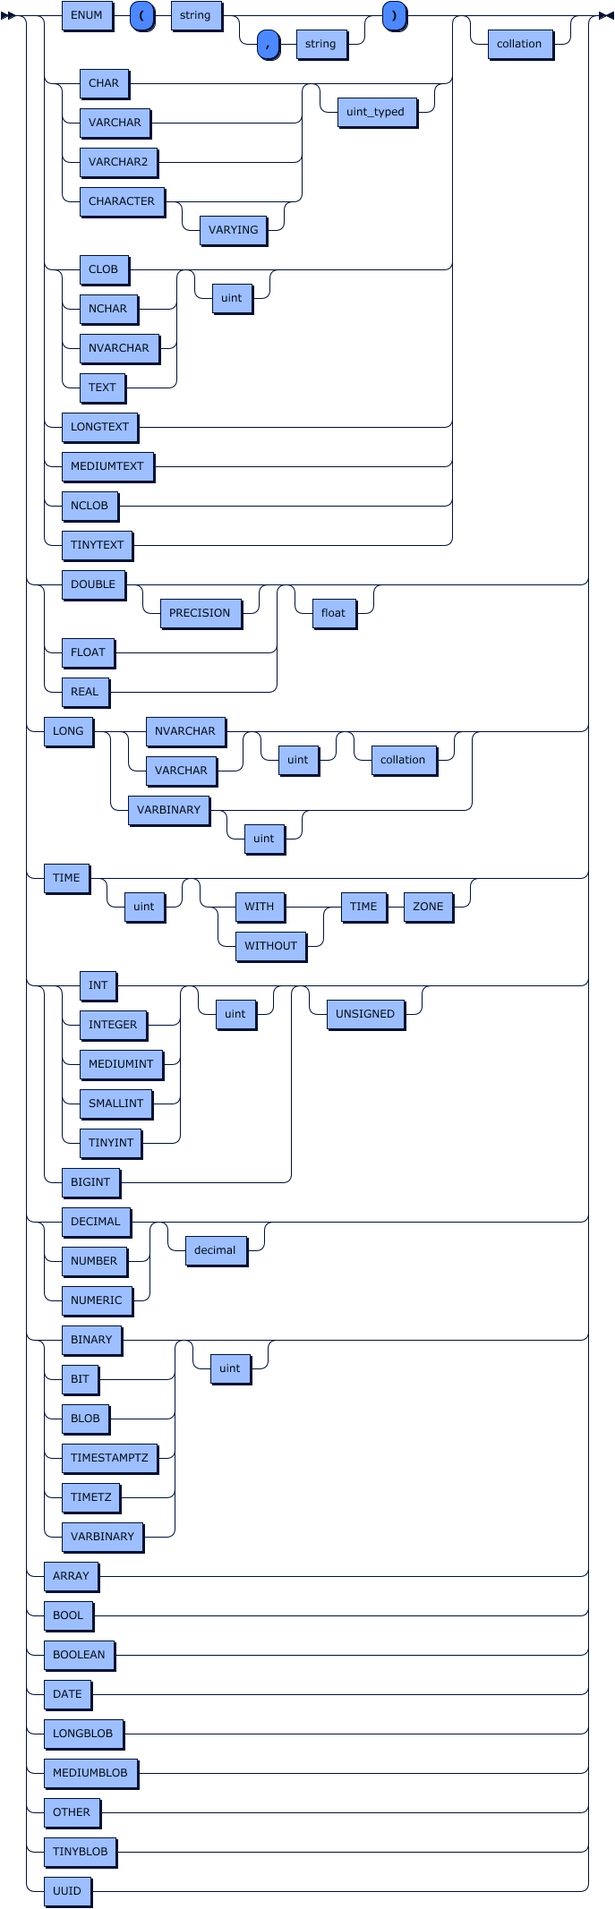
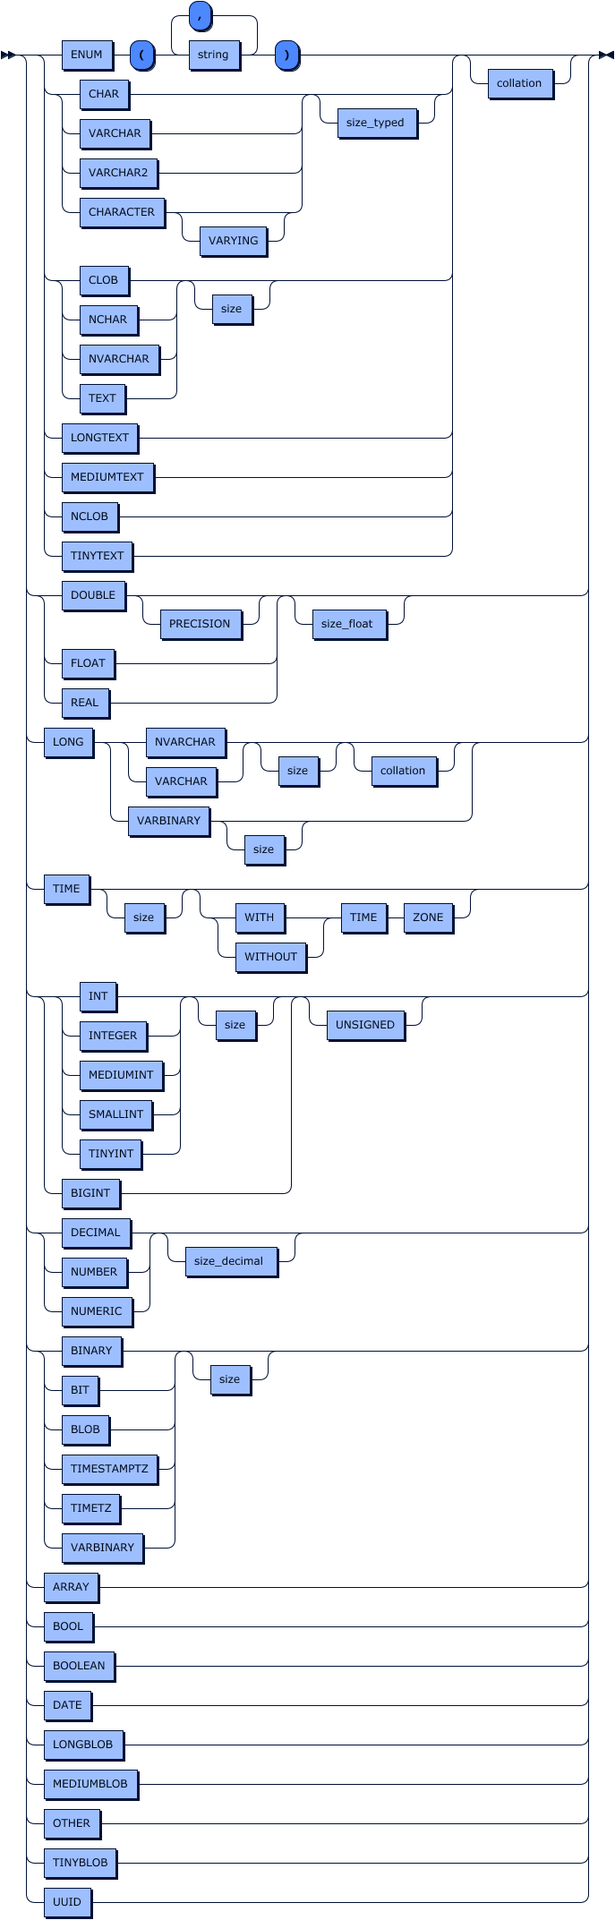
Doc update

diff --git a/doc/index.html b/doc/index.html
@@ -198,17 +198,29 @@
    
    <body>
       
-      <p style="font-size: 14px; font-weight:bold"><a name="sql">sql:</a></p><img border="0" src="diagram/sql.png" height="53" width="249" usemap="#sql.map"><map name="sql.map"><area shape="rect" coords="49,17,135,49" href="#statement" title="statement"><area shape="rect" coords="175,17,219,49" href="#EOF" title="EOF"></map><p>no references</p><br><p style="font-size: 14px; font-weight:bold"><a name="statement">statement:</a></p><img border="0" src="diagram/statement.png" height="37" width="215" usemap="#statement.map"><map name="statement.map"><area shape="rect" coords="29,1,141,33" href="#ddl_statement" title="ddl_statement"></map><p>referenced by:
+      <p style="font-size: 14px; font-weight:bold"><a name="sql">sql:</a></p><img border="0" src="diagram/sql.png" height="53" width="249" usemap="#sql.map"><map name="sql.map"><area shape="rect" coords="49,17,135,49" href="#statement" title="statement"><area shape="rect" coords="175,17,219,49" href="#EOF" title="EOF"></map><p>no references</p><br><p style="font-size: 14px; font-weight:bold"><a name="statement">statement:</a></p><img border="0" src="diagram/statement.png" height="81" width="255" usemap="#statement.map"><map name="statement.map"><area shape="rect" coords="49,1,161,33" href="#ddl_statement" title="ddl_statement"><area shape="rect" coords="49,45,157,77" href="#tcl_statement" title="tcl_statement"></map><p>referenced by:
          
          <ul>
             
             <li><a href="#sql" title="sql">sql</a></li>
             </ul>
-         </p><br><p style="font-size: 14px; font-weight:bold"><a name="ddl_statement">ddl_statement:</a></p><img border="0" src="diagram/ddl_statement.png" height="169" width="281" usemap="#ddl_statement.map"><map name="ddl_statement.map"><area shape="rect" coords="49,1,231,33" href="#createschema_statement" title="createschema_statement"><area shape="rect" coords="49,45,215,77" href="#createtable_statement" title="createtable_statement"><area shape="rect" coords="49,89,221,121" href="#dropschema_statement" title="dropschema_statement"><area shape="rect" coords="49,133,213,165" href="#useschema_statement" title="useschema_statement"></map><p>referenced by:
+         </p><br><p style="font-size: 14px; font-weight:bold"><a name="ddl_statement">ddl_statement:</a></p><img border="0" src="diagram/ddl_statement.png" height="213" width="281" usemap="#ddl_statement.map"><map name="ddl_statement.map"><area shape="rect" coords="49,1,215,33" href="#createtable_statement" title="createtable_statement"><area shape="rect" coords="49,45,231,77" href="#createschema_statement" title="createschema_statement"><area shape="rect" coords="49,89,203,121" href="#droptable_statement" title="droptable_statement"><area shape="rect" coords="49,133,221,165" href="#dropschema_statement" title="dropschema_statement"><area shape="rect" coords="49,177,213,209" href="#useschema_statement" title="useschema_statement"></map><p>referenced by:
          
          <ul>
             
             <li><a href="#statement" title="statement">statement</a></li>
+            </ul>
+         </p><br><p style="font-size: 14px; font-weight:bold"><a name="tcl_statement">tcl_statement:</a></p><img border="0" src="diagram/tcl_statement.png" height="81" width="241" usemap="#tcl_statement.map"><map name="tcl_statement.map"><area shape="rect" coords="49,1,187,33" href="#commit_statement" title="commit_statement"><area shape="rect" coords="49,45,191,77" href="#rollback_statement" title="rollback_statement"></map><p>referenced by:
+         
+         <ul>
+            
+            <li><a href="#statement" title="statement">statement</a></li>
+            </ul>
+         </p><br><p style="font-size: 14px; font-weight:bold"><a name="createtable_statement">createtable_statement:</a></p><img border="0" src="diagram/createtable_statement.png" height="81" width="509" usemap="#createtable_statement.map"><map name="createtable_statement.map"><area shape="rect" coords="29,45,129,77" href="#create_table" title="create_table"><area shape="rect" coords="149,45,203,77" href="#NAME" title="NAME"><area shape="rect" coords="289,45,413,77" href="#table_constraint" title="table_constraint"></map><p>referenced by:
+         
+         <ul>
+            
+            <li><a href="#ddl_statement" title="ddl_statement">ddl_statement</a></li>
             </ul>
          </p><br><p style="font-size: 14px; font-weight:bold"><a name="createschema_statement">createschema_statement:</a></p><img border="0" src="diagram/createschema_statement.png" height="37" width="249" usemap="#createschema_statement.map"><map name="createschema_statement.map"><area shape="rect" coords="29,1,145,33" href="#create_schema" title="create_schema"><area shape="rect" coords="165,1,219,33" href="#NAME" title="NAME"></map><p>referenced by:
          
@@ -216,7 +228,13 @@
             
             <li><a href="#ddl_statement" title="ddl_statement">ddl_statement</a></li>
             </ul>
-         </p><br><p style="font-size: 14px; font-weight:bold"><a name="createtable_statement">createtable_statement:</a></p><img border="0" src="diagram/createtable_statement.png" height="81" width="509" usemap="#createtable_statement.map"><map name="createtable_statement.map"><area shape="rect" coords="29,45,129,77" href="#create_table" title="create_table"><area shape="rect" coords="149,45,203,77" href="#NAME" title="NAME"><area shape="rect" coords="289,45,413,77" href="#table_constraint" title="table_constraint"></map><p>referenced by:
+         </p><br><p style="font-size: 14px; font-weight:bold"><a name="droptable_statement">droptable_statement:</a></p><img border="0" src="diagram/droptable_statement.png" height="37" width="221" usemap="#droptable_statement.map"><map name="droptable_statement.map"><area shape="rect" coords="29,1,117,33" href="#drop_table" title="drop_table"><area shape="rect" coords="137,1,191,33" href="#NAME" title="NAME"></map><p>referenced by:
+         
+         <ul>
+            
+            <li><a href="#ddl_statement" title="ddl_statement">ddl_statement</a></li>
+            </ul>
+         </p><br><p style="font-size: 14px; font-weight:bold"><a name="dropschema_statement">dropschema_statement:</a></p><img border="0" src="diagram/dropschema_statement.png" height="37" width="239" usemap="#dropschema_statement.map"><map name="dropschema_statement.map"><area shape="rect" coords="29,1,135,33" href="#drop_schema" title="drop_schema"><area shape="rect" coords="155,1,209,33" href="#NAME" title="NAME"></map><p>referenced by:
          
          <ul>
             
@@ -228,11 +246,17 @@
             
             <li><a href="#ddl_statement" title="ddl_statement">ddl_statement</a></li>
             </ul>
-         </p><br><p style="font-size: 14px; font-weight:bold"><a name="dropschema_statement">dropschema_statement:</a></p><img border="0" src="diagram/dropschema_statement.png" height="37" width="239" usemap="#dropschema_statement.map"><map name="dropschema_statement.map"><area shape="rect" coords="29,1,135,33" href="#drop_schema" title="drop_schema"><area shape="rect" coords="155,1,209,33" href="#NAME" title="NAME"></map><p>referenced by:
+         </p><br><p style="font-size: 14px; font-weight:bold"><a name="commit_statement">commit_statement:</a></p><img border="0" src="diagram/commit_statement.png" height="37" width="129" usemap="#commit_statement.map"><map name="commit_statement.map"><area shape="rect" coords="29,1,99,33" href="#COMMIT" title="COMMIT"></map><p>referenced by:
          
          <ul>
             
-            <li><a href="#ddl_statement" title="ddl_statement">ddl_statement</a></li>
+            <li><a href="#tcl_statement" title="tcl_statement">tcl_statement</a></li>
+            </ul>
+         </p><br><p style="font-size: 14px; font-weight:bold"><a name="rollback_statement">rollback_statement:</a></p><img border="0" src="diagram/rollback_statement.png" height="37" width="143" usemap="#rollback_statement.map"><map name="rollback_statement.map"><area shape="rect" coords="29,1,113,33" href="#ROLLBACK" title="ROLLBACK"></map><p>referenced by:
+         
+         <ul>
+            
+            <li><a href="#tcl_statement" title="tcl_statement">tcl_statement</a></li>
             </ul>
          </p><br><p style="font-size: 14px; font-weight:bold"><a name="table_constraint">table_constraint:</a></p><img border="0" src="diagram/table_constraint.png" height="145" width="479" usemap="#table_constraint.map"><map name="table_constraint.map"><area shape="rect" coords="69,33,169,65" href="#CONSTRAINT" title="CONSTRAINT"><area shape="rect" coords="209,65,285,97" href="#identifier" title="identifier"><area shape="rect" coords="345,1,429,33" href="#constraint" title="constraint"><area shape="rect" coords="49,109,113,141" href="#column" title="column"></map><p>referenced by:
          
@@ -272,7 +296,7 @@
             
             <li><a href="#constraint" title="constraint">constraint</a></li>
             </ul>
-         </p><br><p style="font-size: 14px; font-weight:bold"><a name="datatype">datatype:</a></p><img border="0" src="diagram/datatype.png" height="2133" width="687" usemap="#datatype.map"><map name="datatype.map"><area shape="rect" coords="69,1,125,33" href="#ENUM" title="ENUM"><area shape="rect" coords="191,1,247,33" href="#string" title="string"><area shape="rect" coords="331,33,387,65" href="#string" title="string"><area shape="rect" coords="89,77,143,109" href="#CHAR" title="CHAR"><area shape="rect" coords="89,121,167,153" href="#VARCHAR" title="VARCHAR"><area shape="rect" coords="89,165,175,197" href="#VARCHAR2" title="VARCHAR2"><area shape="rect" coords="89,209,183,241" href="#CHARACTER" title="CHARACTER"><area shape="rect" coords="223,241,297,273" href="#VARYING" title="VARYING"><area shape="rect" coords="377,109,465,141" href="#uint_typed" title="uint_typed"><area shape="rect" coords="89,285,143,317" href="#CLOB" title="CLOB"><area shape="rect" coords="89,329,153,361" href="#NCHAR" title="NCHAR"><area shape="rect" coords="89,373,177,405" href="#NVARCHAR" title="NVARCHAR"><area shape="rect" coords="89,417,139,449" href="#TEXT" title="TEXT"><area shape="rect" coords="237,317,281,349" href="#uint" title="uint"><area shape="rect" coords="69,461,153,493" href="#LONGTEXT" title="LONGTEXT"><area shape="rect" coords="69,505,171,537" href="#MEDIUMTEXT" title="MEDIUMTEXT"><area shape="rect" coords="69,549,131,581" href="#NCLOB" title="NCLOB"><area shape="rect" coords="69,593,147,625" href="#TINYTEXT" title="TINYTEXT"><area shape="rect" coords="545,33,617,65" href="#collation" title="collation"><area shape="rect" coords="69,637,139,669" href="#DOUBLE" title="DOUBLE"><area shape="rect" coords="179,669,269,701" href="#PRECISION" title="PRECISION"><area shape="rect" coords="69,713,127,745" href="#FLOAT" title="FLOAT"><area shape="rect" coords="69,757,121,789" href="#REAL" title="REAL"><area shape="rect" coords="349,669,397,701" href="#float" title="float"><area shape="rect" coords="49,801,103,833" href="#LONG" title="LONG"><area shape="rect" coords="163,801,251,833" href="#NVARCHAR" title="NVARCHAR"><area shape="rect" coords="163,845,241,877" href="#VARCHAR" title="VARCHAR"><area shape="rect" coords="311,833,355,865" href="#uint" title="uint"><area shape="rect" coords="415,833,487,865" href="#collation" title="collation"><area shape="rect" coords="143,889,233,921" href="#VARBINARY" title="VARBINARY"><area shape="rect" coords="273,921,317,953" href="#uint" title="uint"><area shape="rect" coords="49,965,99,997" href="#TIME" title="TIME"><area shape="rect" coords="139,997,183,1029" href="#uint" title="uint"><area shape="rect" coords="263,997,317,1029" href="#WITH" title="WITH"><area shape="rect" coords="263,1041,341,1073" href="#WITHOUT" title="WITHOUT"><area shape="rect" coords="381,997,431,1029" href="#TIME" title="TIME"><area shape="rect" coords="451,997,505,1029" href="#ZONE" title="ZONE"><area shape="rect" coords="89,1085,129,1117" href="#INT" title="INT"><area shape="rect" coords="89,1129,163,1161" href="#INTEGER" title="INTEGER"><area shape="rect" coords="89,1173,181,1205" href="#MEDIUMINT" title="MEDIUMINT"><area shape="rect" coords="89,1217,169,1249" href="#SMALLINT" title="SMALLINT"><area shape="rect" coords="89,1261,157,1293" href="#TINYINT" title="TINYINT"><area shape="rect" coords="241,1117,285,1149" href="#uint" title="uint"><area shape="rect" coords="69,1305,133,1337" href="#BIGINT" title="BIGINT"><area shape="rect" coords="365,1117,451,1149" href="#UNSIGNED" title="UNSIGNED"><area shape="rect" coords="69,1349,145,1381" href="#DECIMAL" title="DECIMAL"><area shape="rect" coords="69,1393,141,1425" href="#NUMBER" title="NUMBER"><area shape="rect" coords="69,1437,147,1469" href="#NUMERIC" title="NUMERIC"><area shape="rect" coords="207,1381,275,1413" href="#decimal" title="decimal"><area shape="rect" coords="69,1481,135,1513" href="#BINARY" title="BINARY"><area shape="rect" coords="69,1525,109,1557" href="#BIT" title="BIT"><area shape="rect" coords="69,1569,121,1601" href="#BLOB" title="BLOB"><area shape="rect" coords="69,1613,175,1645" href="#TIMESTAMPTZ" title="TIMESTAMPTZ"><area shape="rect" coords="69,1657,133,1689" href="#TIMETZ" title="TIMETZ"><area shape="rect" coords="69,1701,159,1733" href="#VARBINARY" title="VARBINARY"><area shape="rect" coords="235,1513,279,1545" href="#uint" title="uint"><area shape="rect" coords="49,1745,109,1777" href="#ARRAY" title="ARRAY"><area shape="rect" coords="49,1789,103,1821" href="#BOOL" title="BOOL"><area shape="rect" coords="49,1833,127,1865" href="#BOOLEAN" title="BOOLEAN"><area shape="rect" coords="49,1877,101,1909" href="#DATE" title="DATE"><area shape="rect" coords="49,1921,137,1953" href="#LONGBLOB" title="LONGBLOB"><area shape="rect" coords="49,1965,153,1997" href="#MEDIUMBLOB" title="MEDIUMBLOB"><area shape="rect" coords="49,2009,111,2041" href="#OTHER" title="OTHER"><area shape="rect" coords="49,2053,129,2085" href="#TINYBLOB" title="TINYBLOB"><area shape="rect" coords="49,2097,101,2129" href="#UUID" title="UUID"></map><p>referenced by:
+         </p><br><p style="font-size: 14px; font-weight:bold"><a name="datatype">datatype:</a></p><img border="0" src="diagram/datatype.png" height="2145" width="687" usemap="#datatype.map"><map name="datatype.map"><area shape="rect" coords="69,45,125,77" href="#ENUM" title="ENUM"><area shape="rect" coords="211,45,267,77" href="#string" title="string"><area shape="rect" coords="89,89,143,121" href="#CHAR" title="CHAR"><area shape="rect" coords="89,133,167,165" href="#VARCHAR" title="VARCHAR"><area shape="rect" coords="89,177,175,209" href="#VARCHAR2" title="VARCHAR2"><area shape="rect" coords="89,221,183,253" href="#CHARACTER" title="CHARACTER"><area shape="rect" coords="223,253,297,285" href="#VARYING" title="VARYING"><area shape="rect" coords="377,121,465,153" href="#size_typed" title="size_typed"><area shape="rect" coords="89,297,143,329" href="#CLOB" title="CLOB"><area shape="rect" coords="89,341,153,373" href="#NCHAR" title="NCHAR"><area shape="rect" coords="89,385,177,417" href="#NVARCHAR" title="NVARCHAR"><area shape="rect" coords="89,429,139,461" href="#TEXT" title="TEXT"><area shape="rect" coords="237,329,281,361" href="#size" title="size"><area shape="rect" coords="69,473,153,505" href="#LONGTEXT" title="LONGTEXT"><area shape="rect" coords="69,517,171,549" href="#MEDIUMTEXT" title="MEDIUMTEXT"><area shape="rect" coords="69,561,131,593" href="#NCLOB" title="NCLOB"><area shape="rect" coords="69,605,147,637" href="#TINYTEXT" title="TINYTEXT"><area shape="rect" coords="545,77,617,109" href="#collation" title="collation"><area shape="rect" coords="69,649,139,681" href="#DOUBLE" title="DOUBLE"><area shape="rect" coords="179,681,269,713" href="#PRECISION" title="PRECISION"><area shape="rect" coords="69,725,127,757" href="#FLOAT" title="FLOAT"><area shape="rect" coords="69,769,121,801" href="#REAL" title="REAL"><area shape="rect" coords="349,681,431,713" href="#size_float" title="size_float"><area shape="rect" coords="49,813,103,845" href="#LONG" title="LONG"><area shape="rect" coords="163,813,251,845" href="#NVARCHAR" title="NVARCHAR"><area shape="rect" coords="163,857,241,889" href="#VARCHAR" title="VARCHAR"><area shape="rect" coords="311,845,355,877" href="#size" title="size"><area shape="rect" coords="415,845,487,877" href="#collation" title="collation"><area shape="rect" coords="143,901,233,933" href="#VARBINARY" title="VARBINARY"><area shape="rect" coords="273,933,317,965" href="#size" title="size"><area shape="rect" coords="49,977,99,1009" href="#TIME" title="TIME"><area shape="rect" coords="139,1009,183,1041" href="#size" title="size"><area shape="rect" coords="263,1009,317,1041" href="#WITH" title="WITH"><area shape="rect" coords="263,1053,341,1085" href="#WITHOUT" title="WITHOUT"><area shape="rect" coords="381,1009,431,1041" href="#TIME" title="TIME"><area shape="rect" coords="451,1009,505,1041" href="#ZONE" title="ZONE"><area shape="rect" coords="89,1097,129,1129" href="#INT" title="INT"><area shape="rect" coords="89,1141,163,1173" href="#INTEGER" title="INTEGER"><area shape="rect" coords="89,1185,181,1217" href="#MEDIUMINT" title="MEDIUMINT"><area shape="rect" coords="89,1229,169,1261" href="#SMALLINT" title="SMALLINT"><area shape="rect" coords="89,1273,157,1305" href="#TINYINT" title="TINYINT"><area shape="rect" coords="241,1129,285,1161" href="#size" title="size"><area shape="rect" coords="69,1317,133,1349" href="#BIGINT" title="BIGINT"><area shape="rect" coords="365,1129,451,1161" href="#UNSIGNED" title="UNSIGNED"><area shape="rect" coords="69,1361,145,1393" href="#DECIMAL" title="DECIMAL"><area shape="rect" coords="69,1405,141,1437" href="#NUMBER" title="NUMBER"><area shape="rect" coords="69,1449,147,1481" href="#NUMERIC" title="NUMERIC"><area shape="rect" coords="207,1393,309,1425" href="#size_decimal" title="size_decimal"><area shape="rect" coords="69,1493,135,1525" href="#BINARY" title="BINARY"><area shape="rect" coords="69,1537,109,1569" href="#BIT" title="BIT"><area shape="rect" coords="69,1581,121,1613" href="#BLOB" title="BLOB"><area shape="rect" coords="69,1625,175,1657" href="#TIMESTAMPTZ" title="TIMESTAMPTZ"><area shape="rect" coords="69,1669,133,1701" href="#TIMETZ" title="TIMETZ"><area shape="rect" coords="69,1713,159,1745" href="#VARBINARY" title="VARBINARY"><area shape="rect" coords="235,1525,279,1557" href="#size" title="size"><area shape="rect" coords="49,1757,109,1789" href="#ARRAY" title="ARRAY"><area shape="rect" coords="49,1801,103,1833" href="#BOOL" title="BOOL"><area shape="rect" coords="49,1845,127,1877" href="#BOOLEAN" title="BOOLEAN"><area shape="rect" coords="49,1889,101,1921" href="#DATE" title="DATE"><area shape="rect" coords="49,1933,137,1965" href="#LONGBLOB" title="LONGBLOB"><area shape="rect" coords="49,1977,153,2009" href="#MEDIUMBLOB" title="MEDIUMBLOB"><area shape="rect" coords="49,2021,111,2053" href="#OTHER" title="OTHER"><area shape="rect" coords="49,2065,129,2097" href="#TINYBLOB" title="TINYBLOB"><area shape="rect" coords="49,2109,101,2141" href="#UUID" title="UUID"></map><p>referenced by:
          
          <ul>
             
@@ -283,20 +307,6 @@
          <ul>
             
             <li><a href="#datatype" title="datatype">datatype</a></li>
-            </ul>
-         </p><br><p style="font-size: 14px; font-weight:bold"><a name="decimal">decimal:</a></p><img border="0" src="diagram/decimal.png" height="113" width="379" usemap="#decimal.map"><map name="decimal.map"><area shape="rect" coords="207,33,263,65" href="#S_INT" title="S_INT"><area shape="rect" coords="49,77,97,109" href="#float" title="float"></map><p>referenced by:
-         
-         <ul>
-            
-            <li><a href="#datatype" title="datatype">datatype</a></li>
-            </ul>
-         </p><br><p style="font-size: 14px; font-weight:bold"><a name="float">float:</a></p><img border="0" src="diagram/float.png" height="113" width="411" usemap="#float.map"><map name="float.map"><area shape="rect" coords="75,1,133,33" href="#U_INT" title="U_INT"><area shape="rect" coords="237,33,293,65" href="#S_INT" title="S_INT"><area shape="rect" coords="237,77,295,109" href="#U_INT" title="U_INT"></map><p>referenced by:
-         
-         <ul>
-            
-            <li><a href="#datatype" title="datatype">datatype</a></li>
-            
-            <li><a href="#decimal" title="decimal">decimal</a></li>
             </ul>
          </p><br><p style="font-size: 14px; font-weight:bold"><a name="list_identifiers">list_identifiers:</a></p><img border="0" src="diagram/list_identifiers.png" height="81" width="175" usemap="#list_identifiers.map"><map name="list_identifiers.map"><area shape="rect" coords="49,45,125,77" href="#identifier" title="identifier"></map><p>referenced by:
          
@@ -324,19 +334,39 @@
             
             <li><a href="#datatype" title="datatype">datatype</a></li>
             </ul>
-         </p><br><p style="font-size: 14px; font-weight:bold"><a name="uint_typed">uint_typed:</a></p><img border="0" src="diagram/uint_typed.png" height="145" width="363" usemap="#uint_typed.map"><map name="uint_typed.map"><area shape="rect" coords="95,21,153,53" href="#U_INT" title="U_INT"><area shape="rect" coords="193,21,243,53" href="#BYTE" title="BYTE"><area shape="rect" coords="193,65,247,97" href="#CHAR" title="CHAR"><area shape="rect" coords="49,109,93,141" href="#uint" title="uint"></map><p>referenced by:
+         </p><br><p style="font-size: 14px; font-weight:bold"><a name="size_decimal">size_decimal:</a></p><img border="0" src="diagram/size_decimal.png" height="113" width="379" usemap="#size_decimal.map"><map name="size_decimal.map"><area shape="rect" coords="207,33,263,65" href="#S_INT" title="S_INT"><area shape="rect" coords="49,77,131,109" href="#size_float" title="size_float"></map><p>referenced by:
          
          <ul>
             
             <li><a href="#datatype" title="datatype">datatype</a></li>
             </ul>
-         </p><br><p style="font-size: 14px; font-weight:bold"><a name="uint">uint:</a></p><img border="0" src="diagram/uint.png" height="37" width="209" usemap="#uint.map"><map name="uint.map"><area shape="rect" coords="75,1,133,33" href="#U_INT" title="U_INT"></map><p>referenced by:
+         </p><br><p style="font-size: 14px; font-weight:bold"><a name="size_float">size_float:</a></p><img border="0" src="diagram/size_float.png" height="113" width="411" usemap="#size_float.map"><map name="size_float.map"><area shape="rect" coords="75,1,133,33" href="#U_INT" title="U_INT"><area shape="rect" coords="237,33,293,65" href="#S_INT" title="S_INT"><area shape="rect" coords="237,77,295,109" href="#U_INT" title="U_INT"></map><p>referenced by:
          
          <ul>
             
             <li><a href="#datatype" title="datatype">datatype</a></li>
             
-            <li><a href="#uint_typed" title="uint_typed">uint_typed</a></li>
+            <li><a href="#size_decimal" title="size_decimal">size_decimal</a></li>
+            </ul>
+         </p><br><p style="font-size: 14px; font-weight:bold"><a name="size_typed">size_typed:</a></p><img border="0" src="diagram/size_typed.png" height="145" width="363" usemap="#size_typed.map"><map name="size_typed.map"><area shape="rect" coords="95,21,153,53" href="#U_INT" title="U_INT"><area shape="rect" coords="193,21,243,53" href="#BYTE" title="BYTE"><area shape="rect" coords="193,65,247,97" href="#CHAR" title="CHAR"><area shape="rect" coords="49,109,93,141" href="#size" title="size"></map><p>referenced by:
+         
+         <ul>
+            
+            <li><a href="#datatype" title="datatype">datatype</a></li>
+            </ul>
+         </p><br><p style="font-size: 14px; font-weight:bold"><a name="size">size:</a></p><img border="0" src="diagram/size.png" height="37" width="209" usemap="#size.map"><map name="size.map"><area shape="rect" coords="75,1,133,33" href="#U_INT" title="U_INT"></map><p>referenced by:
+         
+         <ul>
+            
+            <li><a href="#datatype" title="datatype">datatype</a></li>
+            
+            <li><a href="#size_typed" title="size_typed">size_typed</a></li>
+            </ul>
+         </p><br><p style="font-size: 14px; font-weight:bold"><a name="create_table">create_table:</a></p><img border="0" src="diagram/create_table.png" height="113" width="359" usemap="#create_table.map"><map name="create_table.map"><area shape="rect" coords="29,1,97,33" href="#CREATE" title="CREATE"><area shape="rect" coords="137,33,189,65" href="#TEMP" title="TEMP"><area shape="rect" coords="137,77,231,109" href="#TEMPORARY" title="TEMPORARY"><area shape="rect" coords="271,1,329,33" href="#TABLE" title="TABLE"></map><p>referenced by:
+         
+         <ul>
+            
+            <li><a href="#createtable_statement" title="createtable_statement">createtable_statement</a></li>
             </ul>
          </p><br><p style="font-size: 14px; font-weight:bold"><a name="create_schema">create_schema:</a></p><img border="0" src="diagram/create_schema.png" height="37" width="219" usemap="#create_schema.map"><map name="create_schema.map"><area shape="rect" coords="29,1,97,33" href="#CREATE" title="CREATE"><area shape="rect" coords="117,1,189,33" href="#SCHEMA" title="SCHEMA"></map><p>referenced by:
          
@@ -344,11 +374,11 @@
             
             <li><a href="#createschema_statement" title="createschema_statement">createschema_statement</a></li>
             </ul>
-         </p><br><p style="font-size: 14px; font-weight:bold"><a name="create_table">create_table:</a></p><img border="0" src="diagram/create_table.png" height="113" width="359" usemap="#create_table.map"><map name="create_table.map"><area shape="rect" coords="29,1,97,33" href="#CREATE" title="CREATE"><area shape="rect" coords="137,33,189,65" href="#TEMP" title="TEMP"><area shape="rect" coords="137,77,231,109" href="#TEMPORARY" title="TEMPORARY"><area shape="rect" coords="271,1,329,33" href="#TABLE" title="TABLE"></map><p>referenced by:
+         </p><br><p style="font-size: 14px; font-weight:bold"><a name="drop_table">drop_table:</a></p><img border="0" src="diagram/drop_table.png" height="113" width="345" usemap="#drop_table.map"><map name="drop_table.map"><area shape="rect" coords="29,1,83,33" href="#DROP" title="DROP"><area shape="rect" coords="123,33,175,65" href="#TEMP" title="TEMP"><area shape="rect" coords="123,77,217,109" href="#TEMPORARY" title="TEMPORARY"><area shape="rect" coords="257,1,315,33" href="#TABLE" title="TABLE"></map><p>referenced by:
          
          <ul>
             
-            <li><a href="#createtable_statement" title="createtable_statement">createtable_statement</a></li>
+            <li><a href="#droptable_statement" title="droptable_statement">droptable_statement</a></li>
             </ul>
          </p><br><p style="font-size: 14px; font-weight:bold"><a name="drop_schema">drop_schema:</a></p><img border="0" src="diagram/drop_schema.png" height="37" width="205" usemap="#drop_schema.map"><map name="drop_schema.map"><area shape="rect" coords="29,1,83,33" href="#DROP" title="DROP"><area shape="rect" coords="103,1,175,33" href="#SCHEMA" title="SCHEMA"></map><p>referenced by:
          
